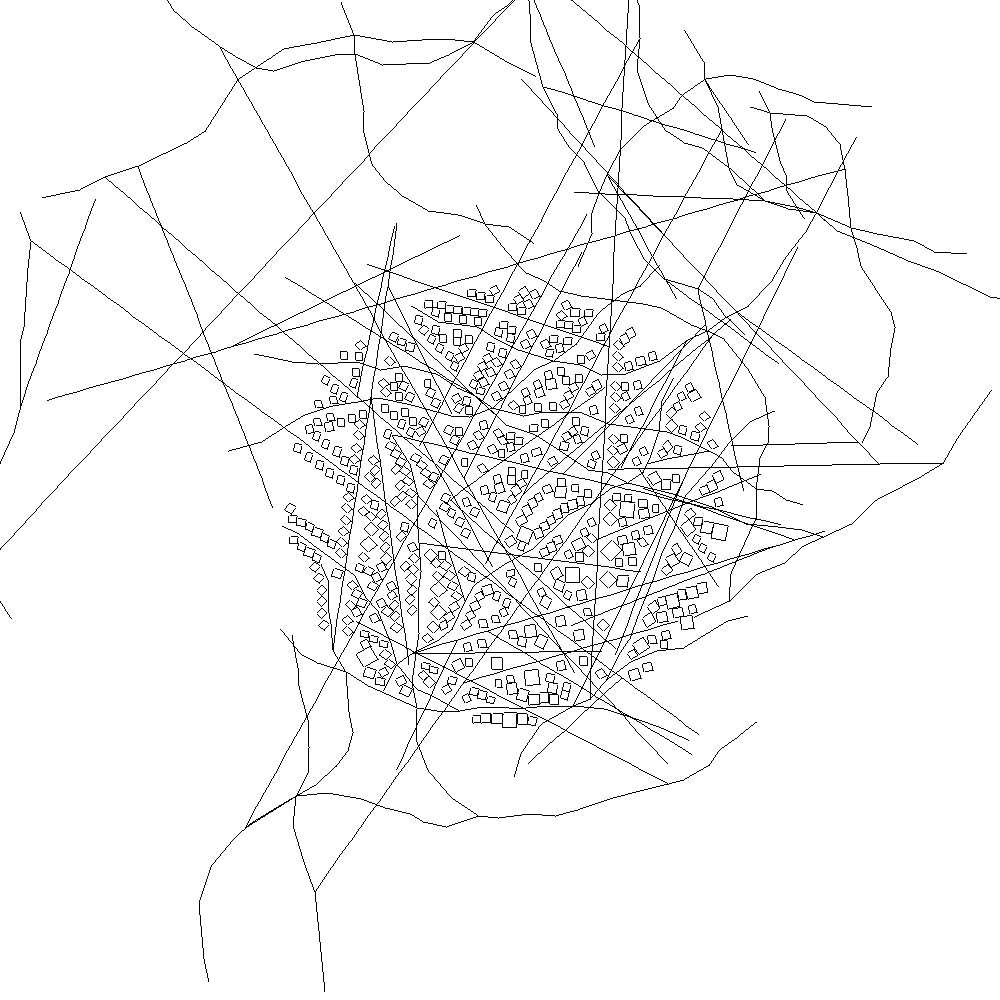
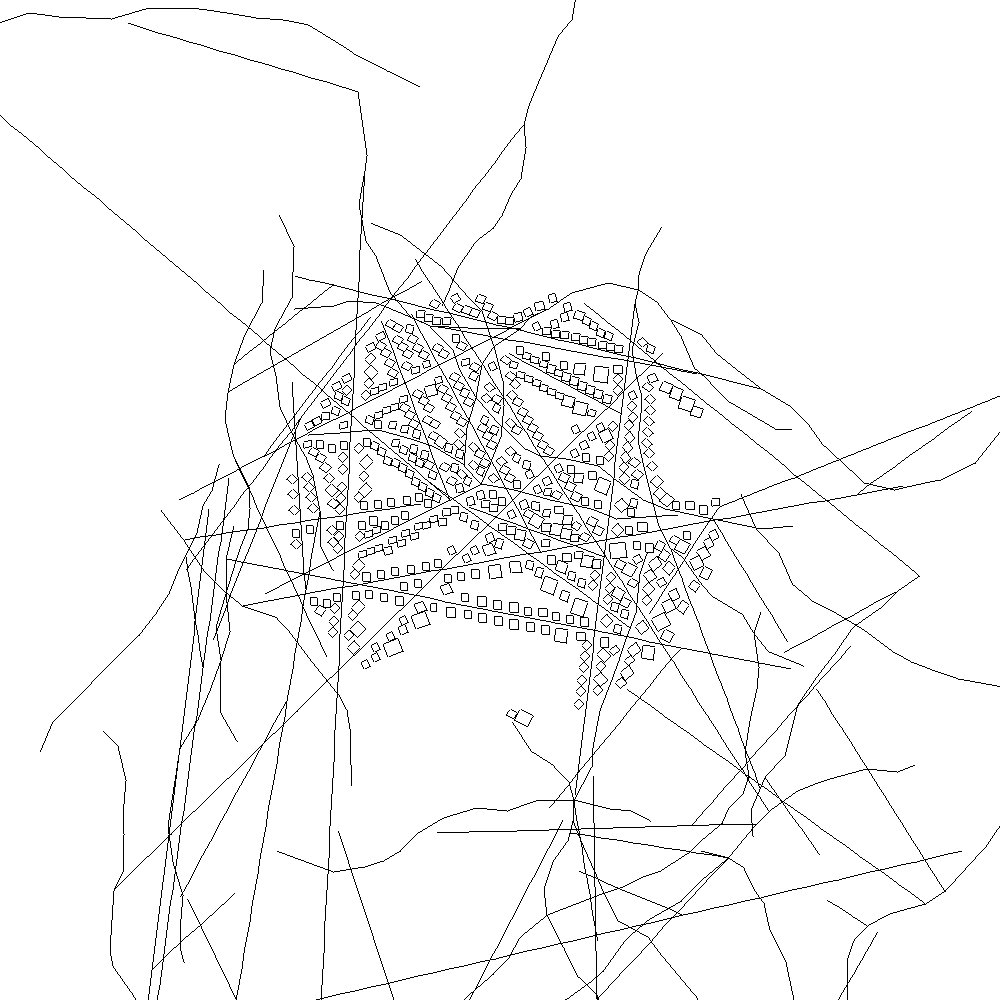
even better generation

diff --git a/src/generators/city.rs b/src/generators/city.rs
@@ -427,12 +427,12 @@ pub fn set_up_roads(city: &mut City) -> Vec<(Point, f32)> {
                                 (i.points[j - 1].as_vec2() - i.points[j].as_vec2()).normalized();
                             theta = delta.angle_to(Vector2::new(1.0, 0.0));
                         }
-                        if dist < 5 {
+                        if dist < 4 {
                             return None;
                         }
                     }
                 }
-                if closest_distance < 14 {
+                if closest_distance < 12 {
                     Some((p, theta))
                 } else {
                     None
